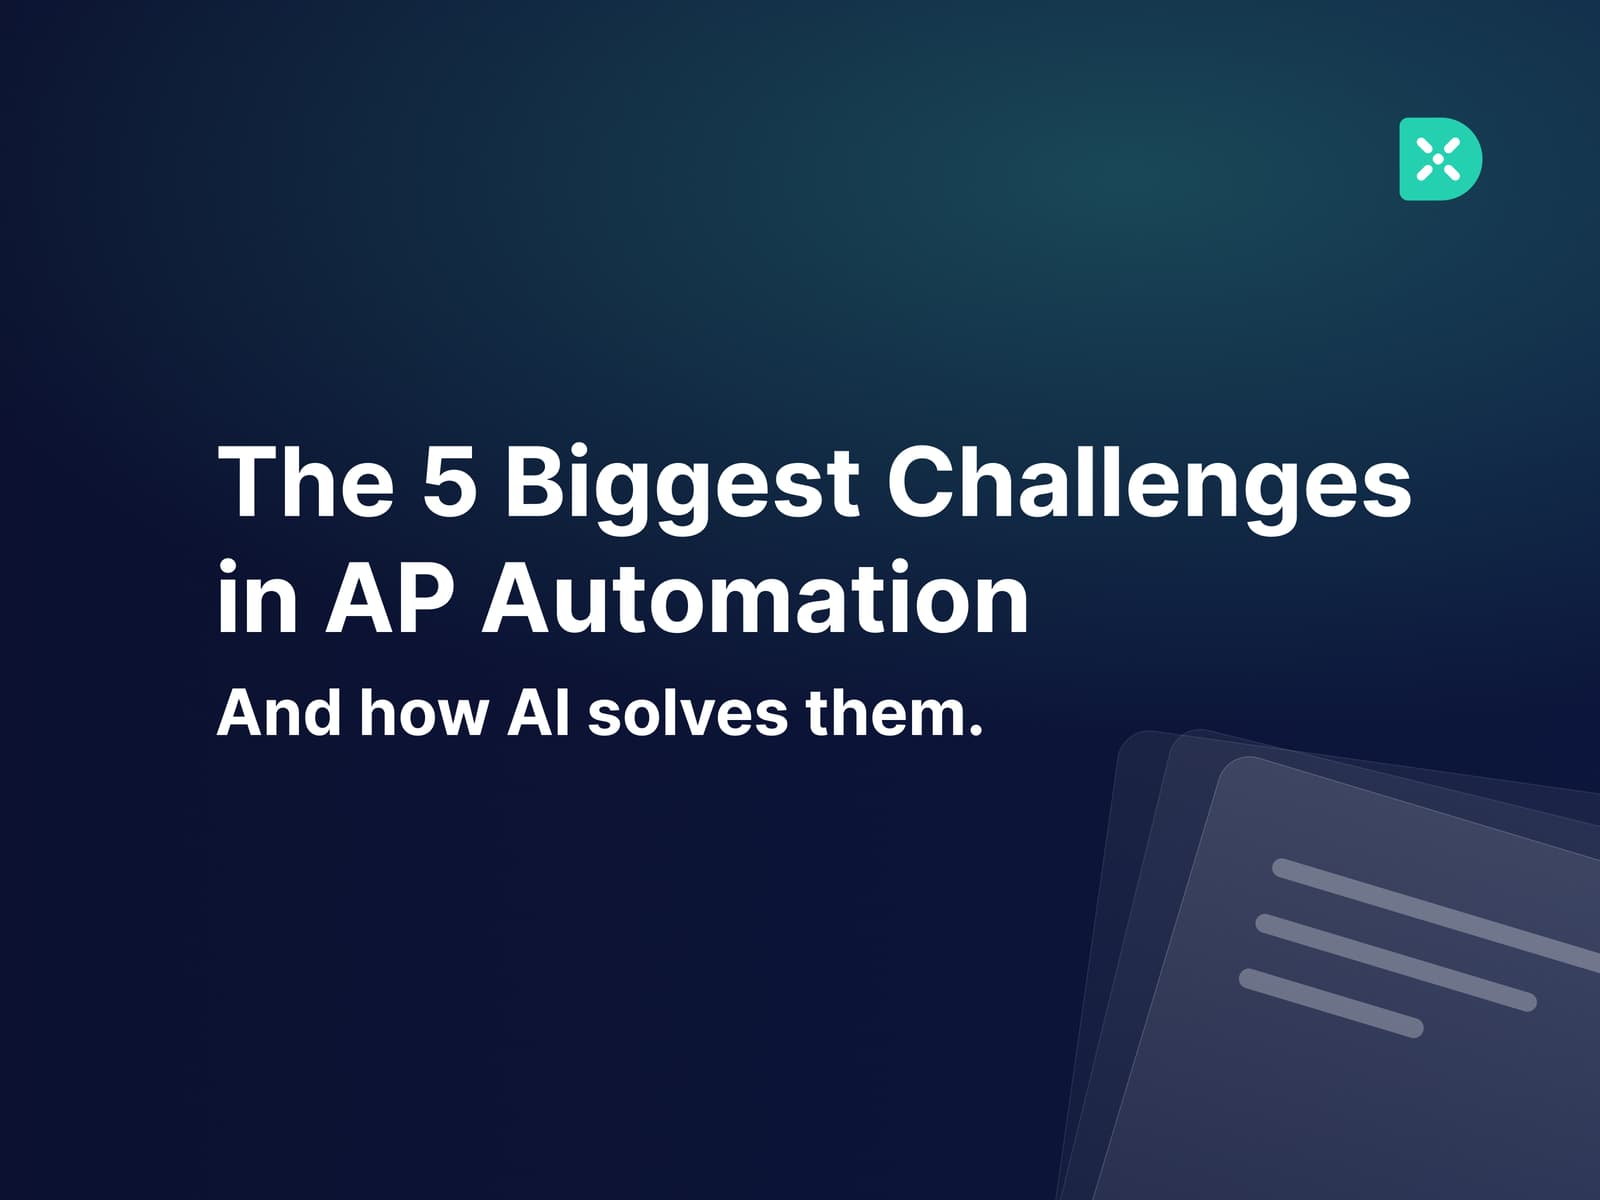
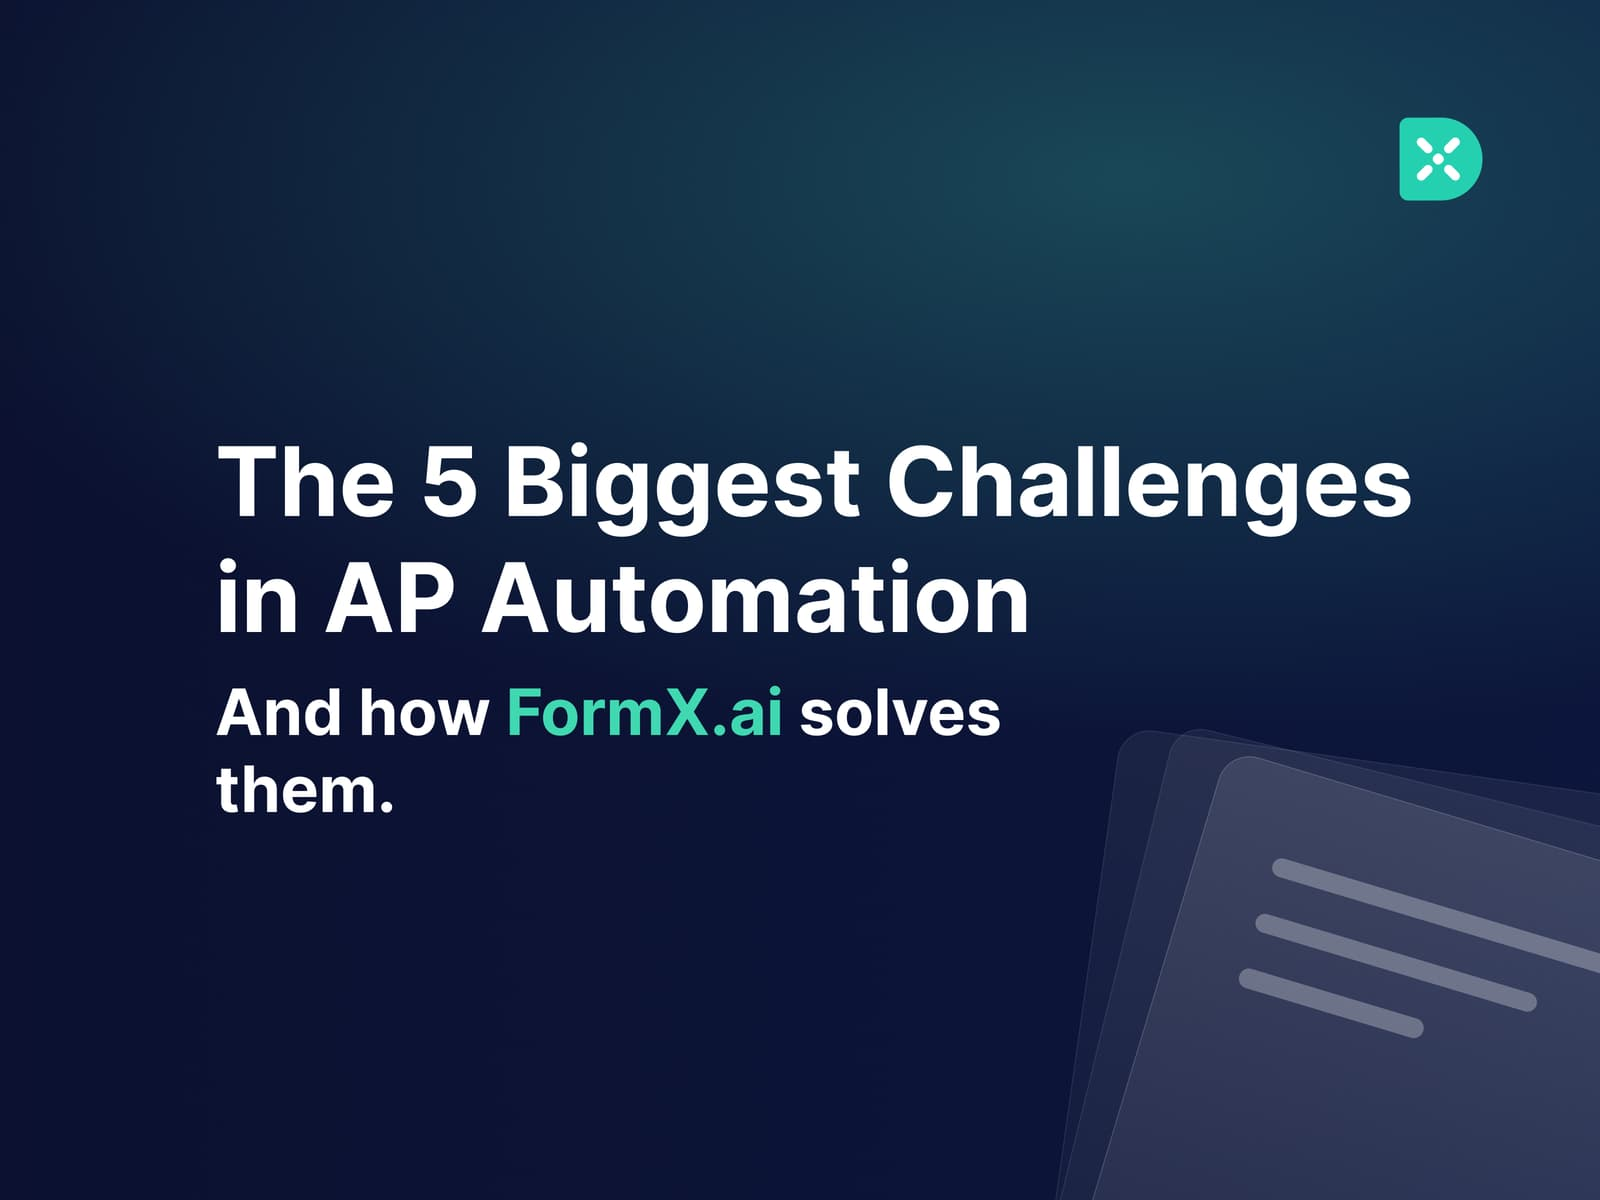
Update cover image and shrink FAQ question headings
Swap in the revised cover art, and scope the three FAQ question
headings to 22px so they no longer match the 32px section heading
above them. Scoped via a class on this post rather than changing
.rt-post h3 globally, which would affect all other posts.

Changed region(s): [[0.3125, 0.555, 0.625, 0.6167], [0.125, 0.6475, 0.25, 0.6783]]

diff --git a/src/content/blog/the-5-biggest-challenges-in-ap-automation-and-how-ai-solves-them.md b/src/content/blog/the-5-biggest-challenges-in-ap-automation-and-how-ai-solves-them.md
@@ -10,6 +10,10 @@ featured_image_alt: "The 5 biggest challenges in AP automation: bundled invoice 
 canonical_url: "/blog/the-5-biggest-challenges-in-ap-automation-and-how-ai-solves-them/"
 ---
 
+<style>
+  .rt-post h3.faq-q { font-size: 22px; line-height: 1.4; margin-top: 28px; }
+</style>
+
 Picture the invoice that comes in, gets captured, and arrives in your queue with every field already filled in. That used to be the finish line for "AP automation." It isn't anymore, not when the same invoice still needs someone to code it, check it against the right cost centre, catch a mismatch, and route it to the right approver by hand.
 
 If you're one of the 75% of Accounts Payable (AP) departments already using some form of AI or automation, the real question by now is why the results haven't fully caught up yet.
@@ -80,15 +84,15 @@ Once an invoice is coded and validated, [FormX.ai Clark](https://www.youtube.com
 
 ## A few common questions
 
-### Does this replace our ERP or approval workflow?
+<h3 class="faq-q">Does this replace our ERP or approval workflow?</h3>
 
 No. FormX.ai sits in front of what you already run and pushes clean, coded data into your existing ERP or AP system.
 
-### What if our invoices don't fit a standard integration?
+<h3 class="faq-q">What if our invoices don’t fit a standard integration?</h3>
 
 Our servicing consultation and development team can help build custom requirements. You're not limited to a one-size-fits-all setup.
 
-### How do we start without disrupting our current process?
+<h3 class="faq-q">How do we start without disrupting our current process?</h3>
 
 Scope a pilot to one invoice type or vendor group, run it alongside what you already have, and only connect it to your core systems once accuracy has been validated on your own documents.
 
